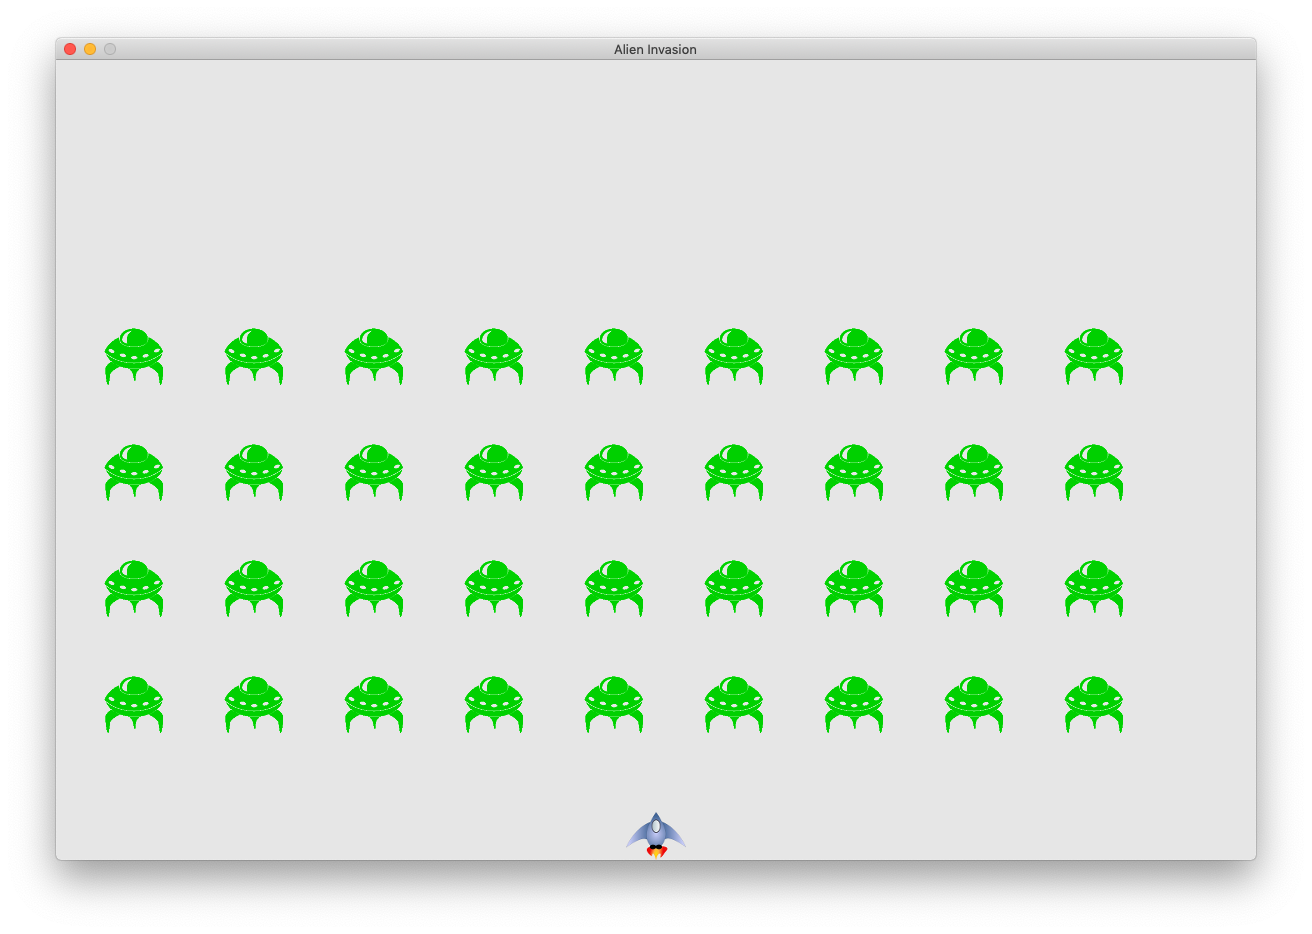
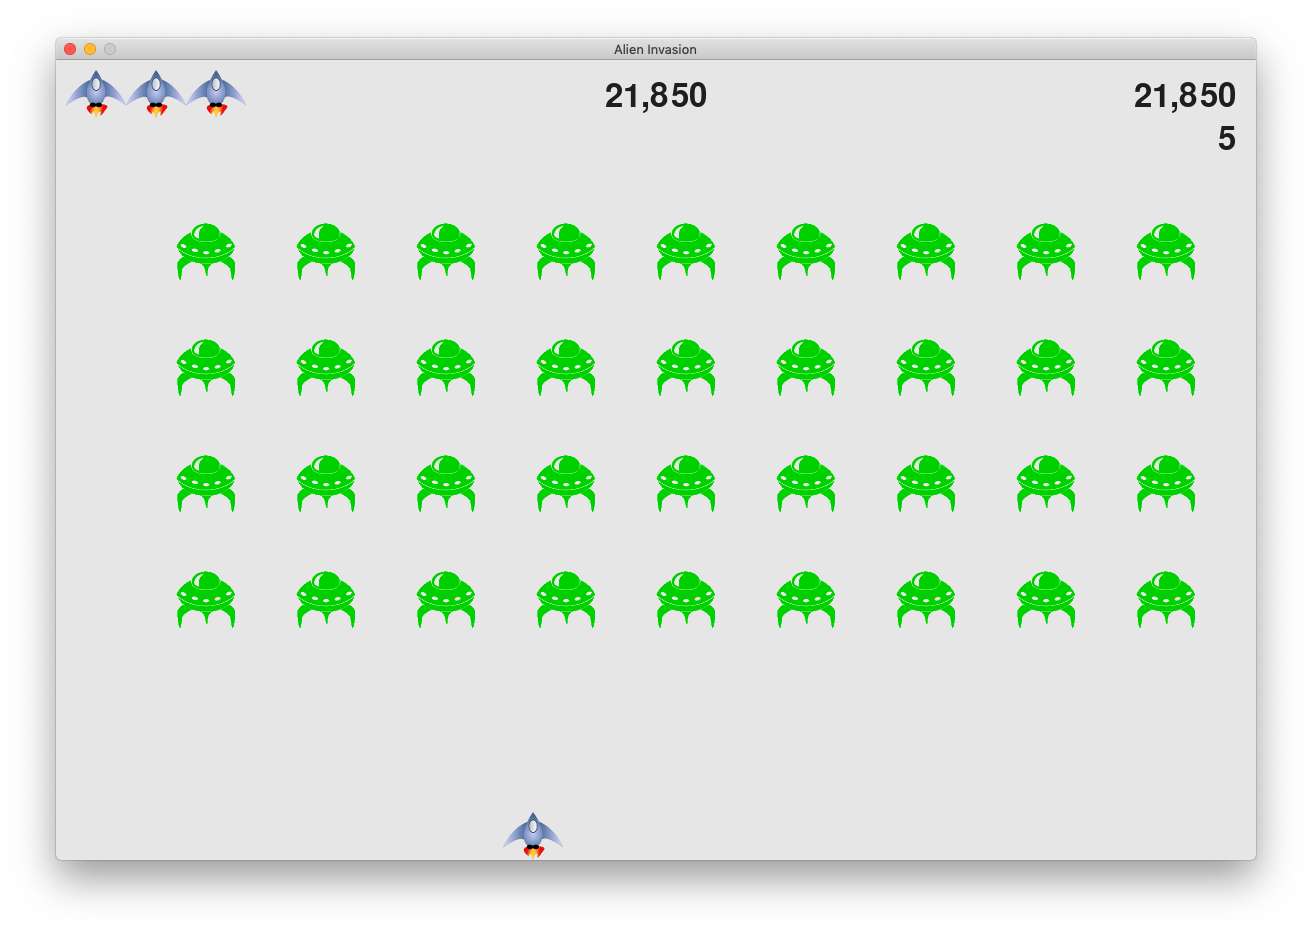
Add number of ships left, and high score

diff --git a/scoreboard.py b/scoreboard.py
@@ -1,10 +1,14 @@
 import pygame.font
+from pygame.sprite import Group
+
+from ship import Ship
 
 class Scoreboard:
     """ A cladd to report scoring information """
 
     def __init__(self, ai_game):
         """ Initialize scorekeeping attributes """
+        self.ai_game = ai_game
         self.screen = ai_game.screen
         self.screen_rect = self.screen.get_rect()
         self.settings = ai_game.settings
@@ -17,6 +21,8 @@ class Scoreboard:
         # Prepare the initial score images
         self.prep_score()
         self.prep_high_score()
+        self.prep_level()
+        self.prep_ships()
 
     def prep_score(self):
         """ Turn the score into a rendered image """
@@ -32,9 +38,46 @@ class Scoreboard:
         self.score_rect.top = 20
 
     def show_score(self):
-        """ Draw sscore to the scren """
+        """ Draw scores, level and ships to the scren """
         self.screen.blit(self.score_image, self.score_rect)
+        self.screen.blit(self.high_score_image, self.high_score_rect)
+        self.screen.blit(self.level_image, self.level_rect)
+        self.ships.draw(self.screen)
 
     def prep_high_score(self):
         """ Turn the high score into a rendered image """
+        high_score = round(self.stats.high_score, -1)
+        high_score_str = "{:,}".format(high_score)
+        self.high_score_image = self.font.render(high_score_str, True, 
+            self.text_color, self.settings.bg_color)
         
+        # Center high score at the top of the screen
+        self.high_score_rect = self.high_score_image.get_rect()
+        self.high_score_rect.centerx = self.screen_rect.centerx
+        self.high_score_rect.top = self.score_rect.top
+
+    def check_high_score(self):
+        """ Check to see if there's a new high score """
+        if self.stats.score > self.stats.high_score:
+            self.stats.high_score = self.stats.score
+            self.prep_high_score()
+
+    def prep_level(self):
+        """ Turn the level into a rendered image """
+        level_str = str(self.stats.level)
+        self.level_image = self.font.render(level_str, True,
+            self.text_color, self.settings.bg_color)
+        
+        # Position the level below the score
+        self.level_rect = self.level_image.get_rect()
+        self.level_rect.right = self.score_rect.right
+        self.level_rect.top = self.score_rect.bottom + 10
+
+    def prep_ships(self):
+        """ Show how many ships are left """
+        self.ships = Group()
+        for ship_number in range(self.stats.ships_left):
+            ship = Ship(self.ai_game)
+            ship.rect.x = 10 + (ship_number * ship.rect.width)
+            ship.rect.y = 10
+            self.ships.add(ship)

diff --git a/alien_invasion.py b/alien_invasion.py
@@ -71,6 +71,8 @@ class AlienInvasion:
         self.stats.reset_stats()
         self.stats.game_active = True
         self.sb.prep_score()
+        self.sb.prep_level()
+        self.sb.prep_ships()
 
         # Remove remaining aliens and bullets
         self.aliens.empty()
@@ -126,12 +128,17 @@ class AlienInvasion:
             for aliens in collisions.values():
                 self.stats.score += self.settings.alien_points * len(aliens)
             self.sb.prep_score()
+            self.sb.check_high_score()
 
         if not self.aliens:
             # Destroy existing bullets and create new fleet
             self.bullets.empty()
             self._create_fleet()
             self.settings.increase_speed()
+
+            # Increase level
+            self.stats.level += 1
+            self.sb.prep_level()
 
     def _update_aliens(self):
         """ Update the positions of all aliens in the fleet """
@@ -188,8 +195,9 @@ class AlienInvasion:
     def _ship_hit(self):
         """ Respond to the ship hit by alien """
         if self.stats.ships_left > 0:
-            # Decrement ships_left
+            # Decrement ships_left and update scoreboard
             self.stats.ships_left -= 1
+            self.sb.prep_ships()
 
             # Remove any remaining aliens and bullets
             self.aliens.empty()

diff --git a/ship.py b/ship.py
@@ -1,10 +1,12 @@
 import pygame
+from pygame.sprite import Sprite
 
-class Ship:
+class Ship(Sprite):
     """ A class to manage the ship """
 
     def __init__(self, ai_game):
         """ Initialize the ship and set its starting position """
+        super().__init__()
         self.screen = ai_game.screen
         self.settings = ai_game.settings
         self.screen_rect = ai_game.screen.get_rect()

diff --git a/game_stats.py b/game_stats.py
@@ -18,3 +18,4 @@ class GameStats:
         """ Initialize statistics that can change during game """
         self.ships_left = self.settings.ship_limit
         self.score = 0
+        self.level = 0 # had to start at zero, book said 1 ??
